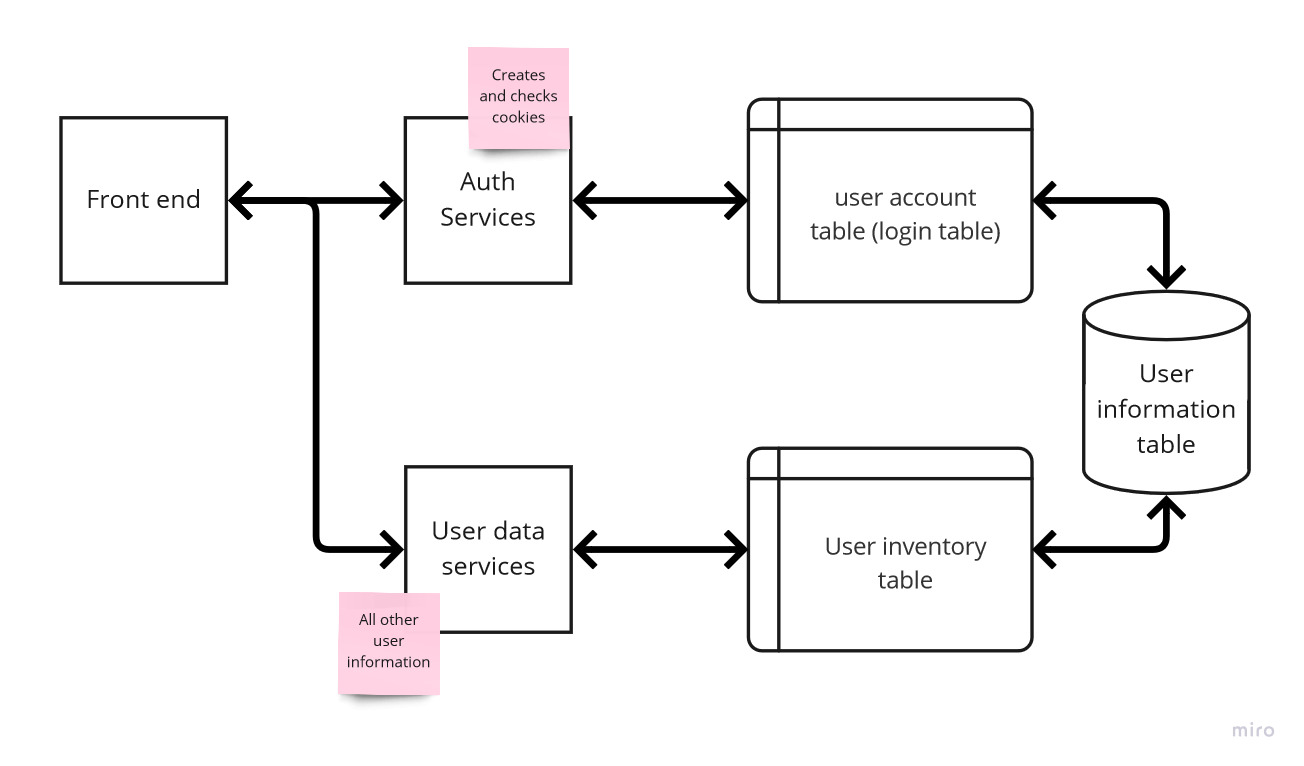
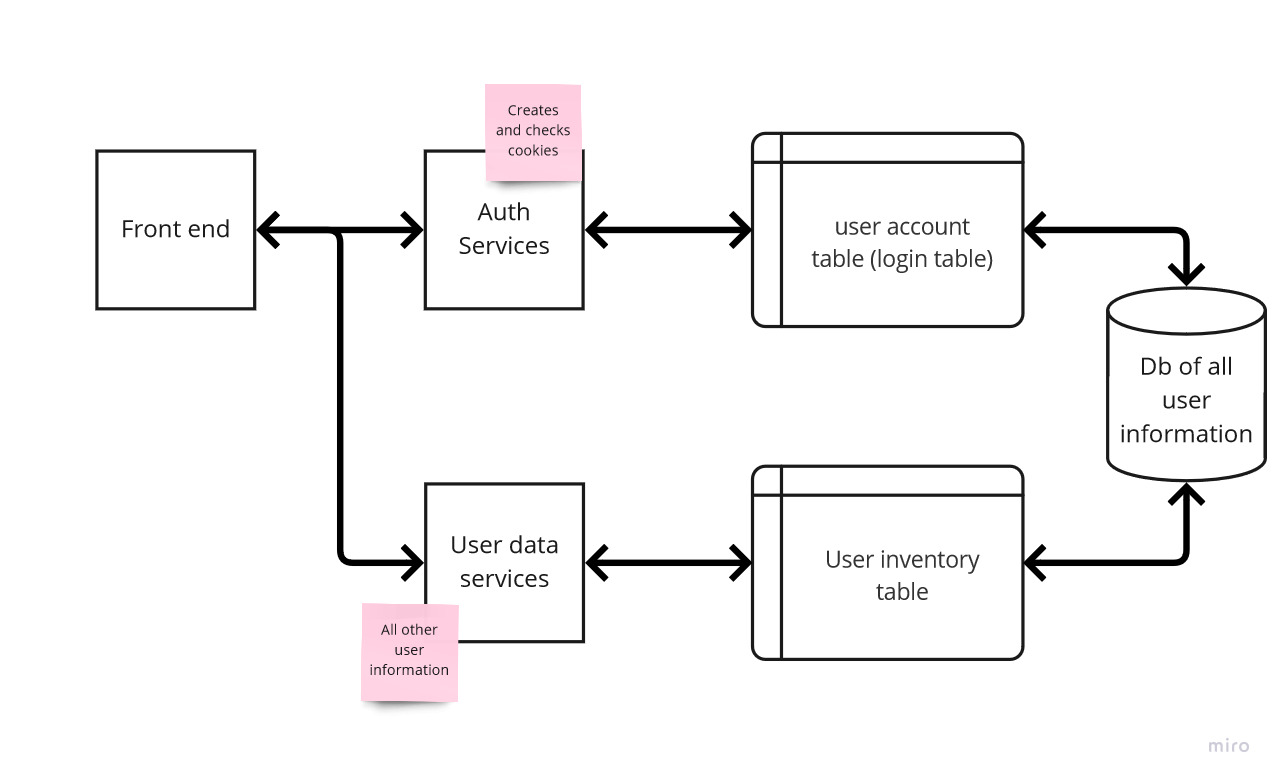
soem database stuff

Changed region(s): [[0.0305, 0.0601, 1.0, 0.9308], [0.946, 0.9308, 0.9765, 0.9608]]

diff --git a/DESIGN.md b/DESIGN.md
@@ -29,3 +29,15 @@ Diagram of the general architecture:
 - User data service is responsible for all other user information that is not sensitive.  This can be user inventory, their profile, their virtual pets, and other things that can be shown to the public or logged in users.
 
 ![Diagram of the general architecture](./design-img/Arch.jpg)
+
+## APIs:
+Both the auth services and user data services are done in an API manner.  These are done in Node.js.
+
+## Data Storage Method:
+We are using MongoDB for all data storage.  The only things that are allowed to do CRUD operations on the DB are the APIs, and the APIs need to be authenticated and authorized with tokens first.  This is especially important in sensitive tables. Passwords must be hashed and salted before stored.
+
+## Database design:
+
+## Need to research:
+- Security measures
+- Cookies for user login so that they can only view pages when logged in.
